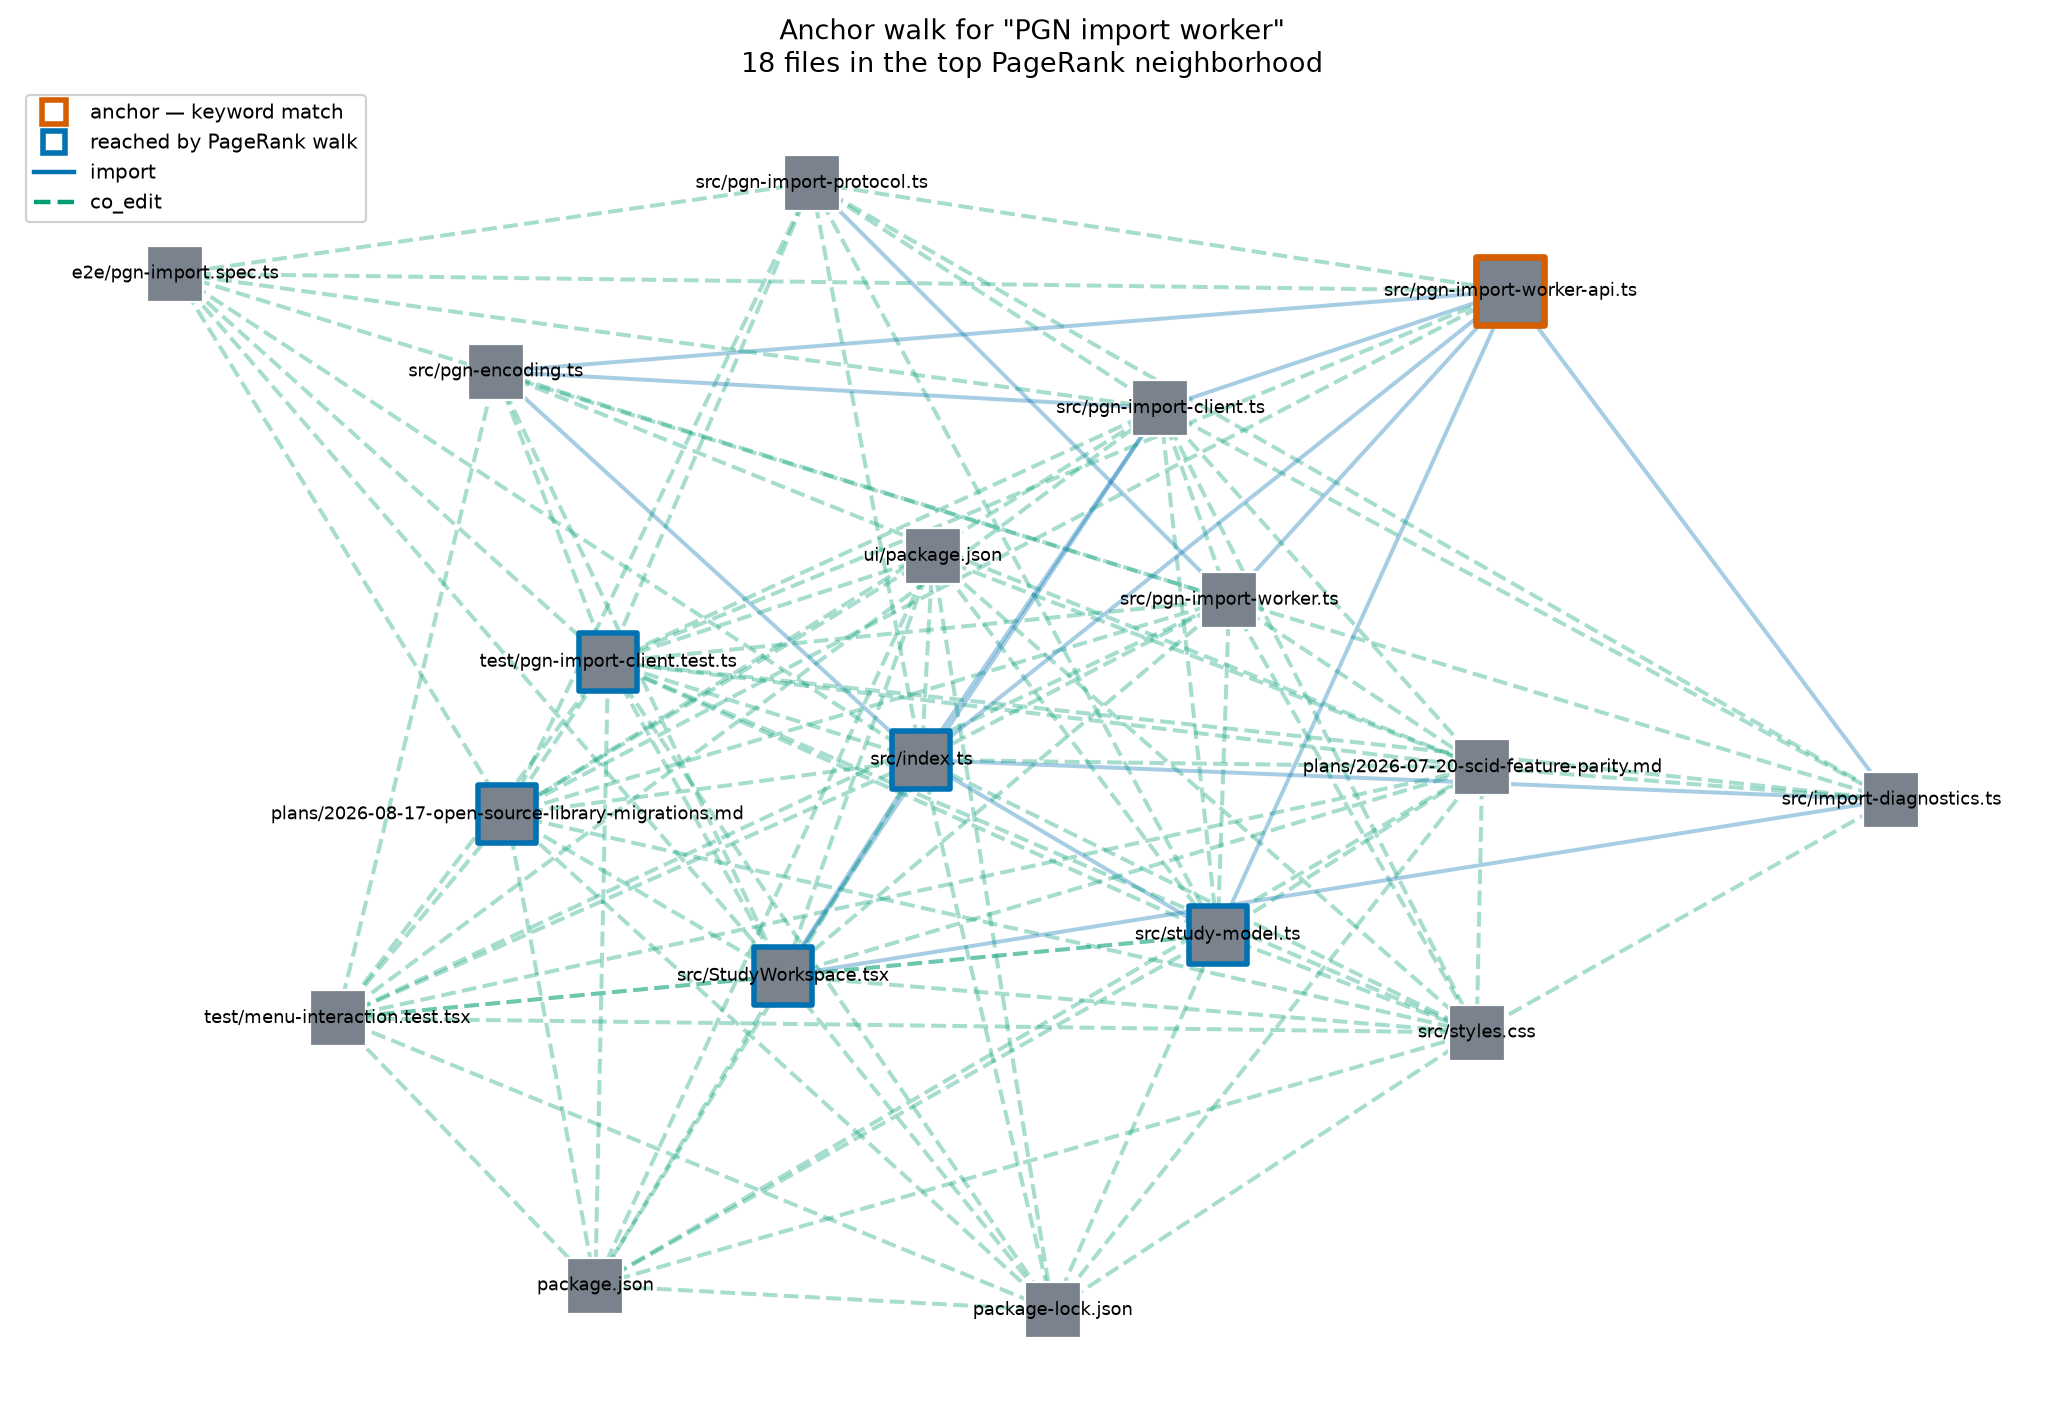
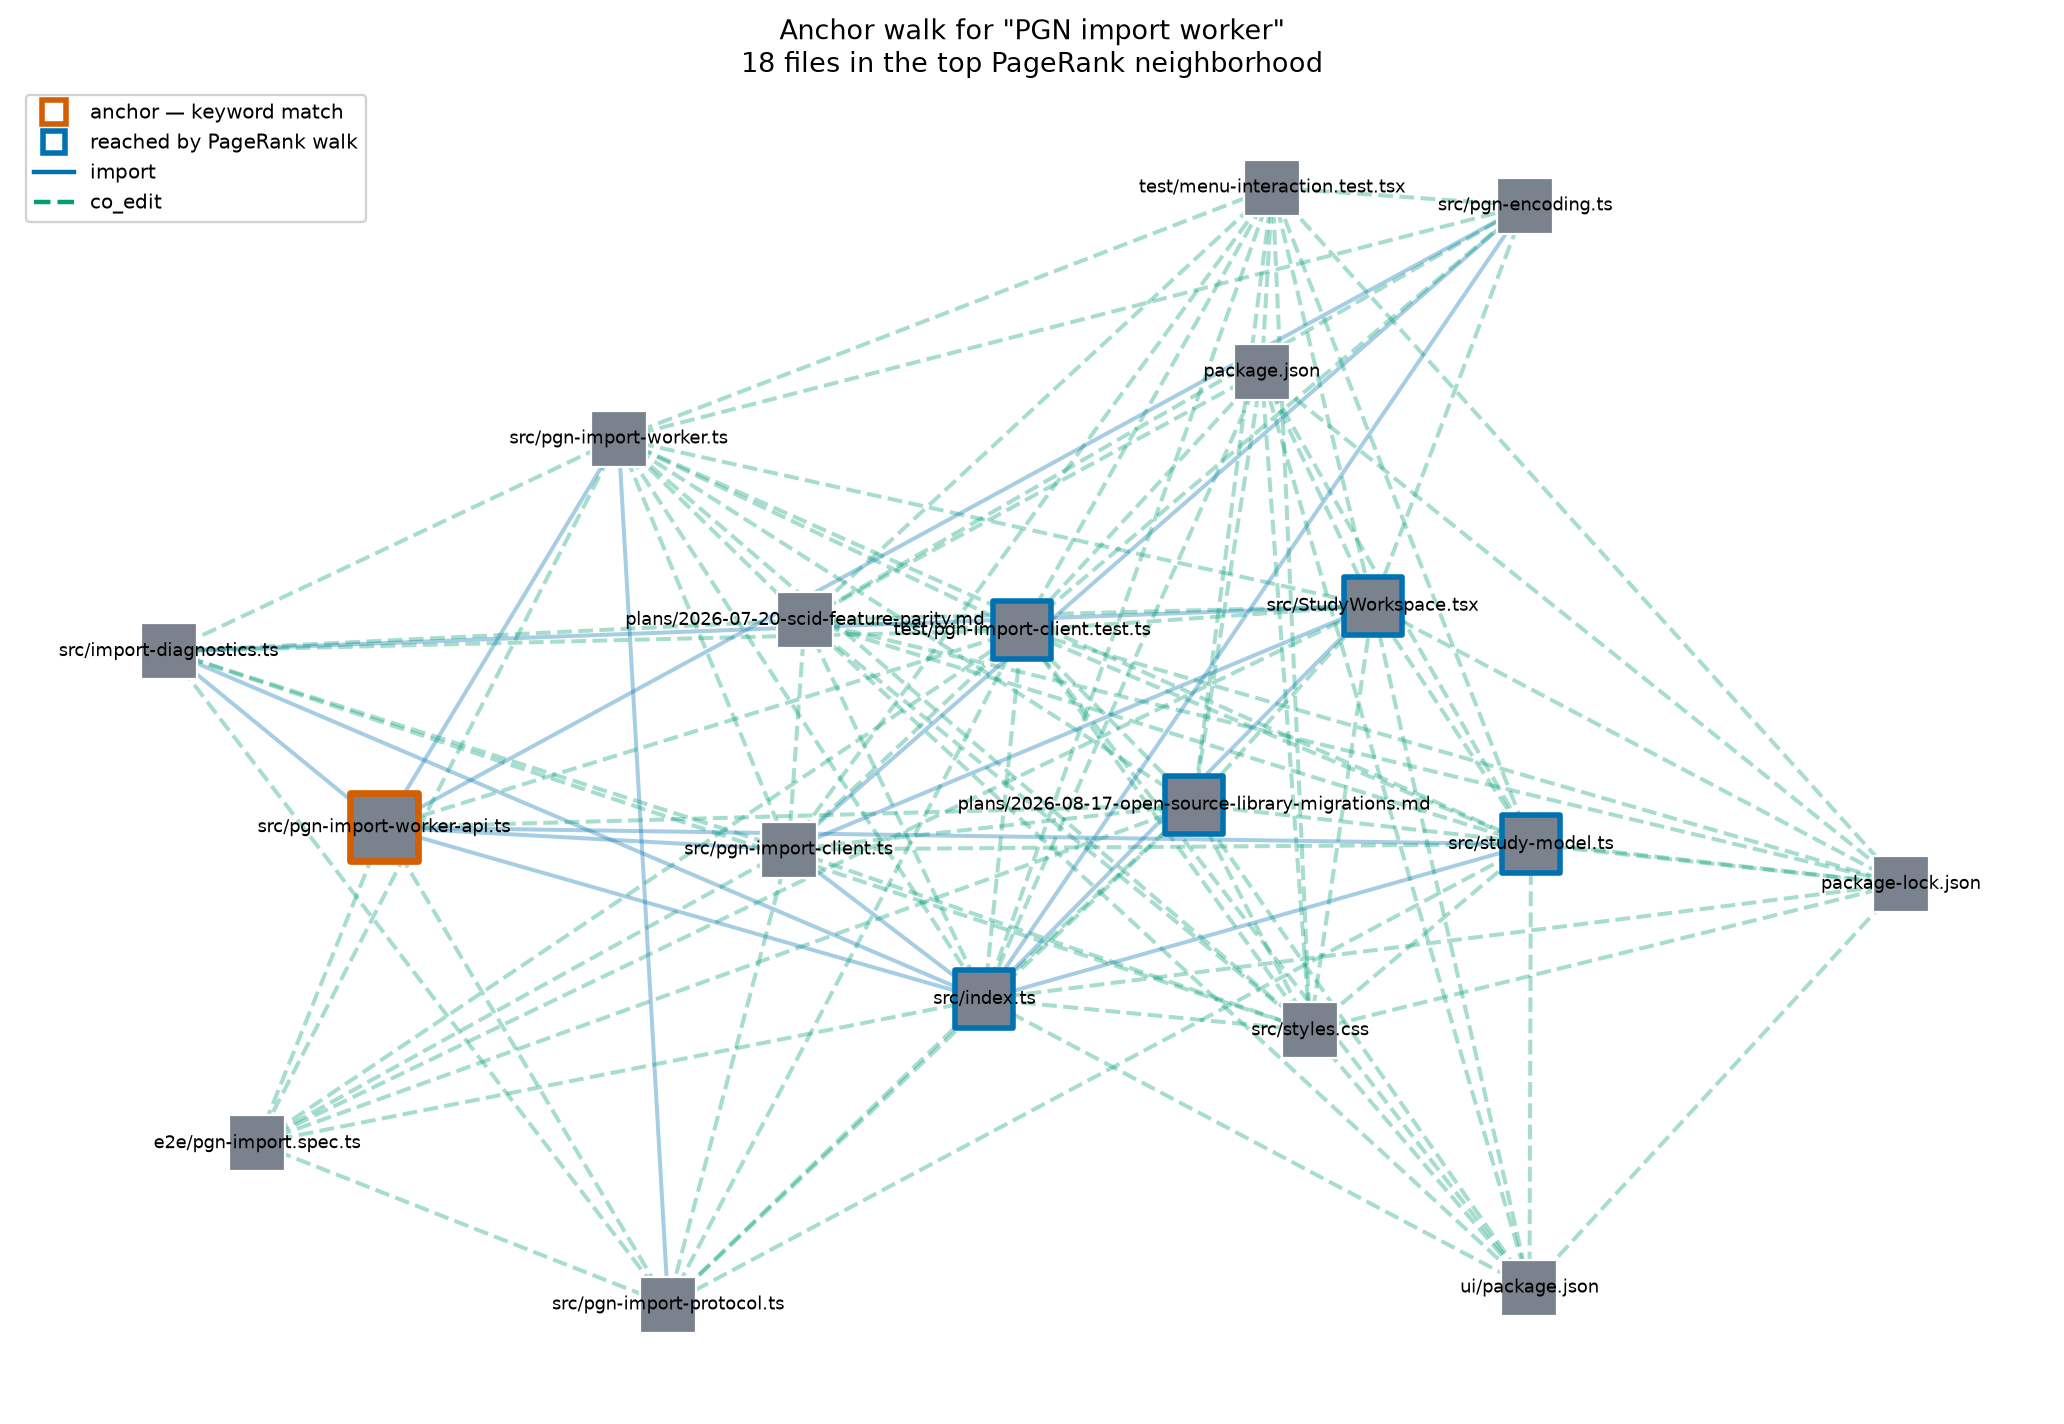
Restore L4 Django benchmark charts

Changed region(s): [[0.031, 0.0927, 0.9612, 0.9579], [0.031, 0.1545, 0.2171, 0.309], [0.6202, 0.8034, 0.6512, 0.8343]]

diff --git a/_posts/2026-08-30-building-code-knowledge-graphs.md b/_posts/2026-08-30-building-code-knowledge-graphs.md
@@ -215,21 +215,32 @@ response = self._post_json("/chat/completions", payload)
 
 This keeps the comparison honest. The control arm gets the task plus the candidate file inventory. The treatment arm gets the same inventory plus the generated structure map. That isolates whether structural context changes ranking behavior without turning the experiment into a full autonomous coding benchmark.
 
-## A repository benchmark: chess-studio
+## A coding-workflow example: Django
 
-The benchmark remains deliberately narrow and reproducible: it measures file localization on three real `chess-studio` tasks, not whether an agent can edit and test a complete feature. Each task has explicit repository-relative gold files, and both methods are evaluated against the same index.
+The repository retrieval experiment above is deliberately offline. The L4 notebook also includes a separate coding-workflow benchmark on Django, where an agent received either a bare repository or a graph-derived structure hint while implementing a real cache-control change. This is different evidence: it measures an end-to-end coding workflow, not just whether a file appears in a ranked list.
 
-![Chess-studio task-level retrieval benchmark]({{ "/assets/2026/08/20260830-code-kg-chess-studio-benchmark.png" | absolute_url }}){: .center-image }
+![Django coding-workflow improvement bars]({{ "/assets/2026/08/20260830-code-kg-django-hero.png" | absolute_url }}){: .center-image }
 
-_Figure 5: Task-level recall@5 from the real `chess-studio` experiment. The chart compares the same keyword and PageRank methods without importing measurements from another repository or workflow._
+_Figure 5: The L4 notebook's signed improvement bars for the five-run Django cache-control hero task. Positive values mean the structure-map treatment is better._
 
-| Task | Query | Gold files | Keyword recall@5 | PageRank recall@5 |
-|---|---|---:|---:|---:|
-| 1 | PGN parsing and worker handoff | 2 | 0.50 | 0.00 |
-| 2 | Dexie schema for games, imports, profiles, and tree edges | 1 | 1.00 | 1.00 |
-| 3 | Opening-tree indexing and study-workspace rendering | 2 | 0.00 | 0.00 |
+![Django coding-workflow suite time spread]({{ "/assets/2026/08/20260830-code-kg-django-suite.png" | absolute_url }}){: .center-image }
 
-The result is a useful caution. On the second task, both methods find the gold file within five results. On the first, keyword overlap finds one of two files while the graph ranking misses both at that cutoff. On the third, neither method finds the two gold files. The graph is a navigation aid, not a correctness oracle, and this small repository sample does not support a claim that PageRank improves retrieval universally.
+_Figure 6: The L4 notebook's per-task time-improvement spread across ten Django tasks. Red bars are slower with the graph context; green bars are faster._
+
+For the hero task, both arms passed the acceptance test in all five runs. The structure-map arm used fewer resources on average:
+
+| Metric | Bare repository | Structure map | Change |
+|---|---:|---:|---:|
+| Total time | 212.6 s | 174.6 s | −17.9% |
+| Total tokens | 3.02 M | 2.53 M | −16.3% |
+| Tool calls | 57.2 | 47.6 | −16.8% |
+| Calls to first correct edit | 14.4 | 12.0 | −16.7% |
+| Cost | $0.4829 | $0.4218 | −12.7% |
+| Acceptance | 100% | 100% | unchanged |
+
+That is a useful example because the task has a concrete correctness endpoint. It is not enough to say that the model saw more related files; the edited Django checkout also had to pass the task's acceptance tests. Still, it is a five-run case study. The `anchors_only` ablation performed at least as well as the full graph map on several effort metrics, so this experiment does not isolate PageRank as the cause of the improvement.
+
+Across the broader ten-task suite, the median time improvement was 11.0%, but the pooled exact test was not statistically conclusive (`p = 0.2324` for time). The honest conclusion is that structural context can be useful navigation assistance, while the current evidence does not establish a reliable correctness or speedup guarantee.
 
 ## Run it on any checkout
 
